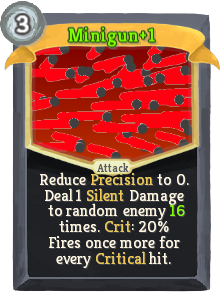
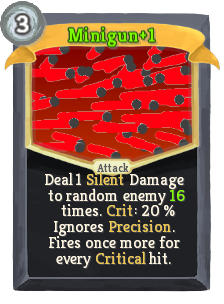
update

Changed region(s): [[0.1562, 0.5625, 0.8438, 0.7993]]

diff --git a/index.html b/index.html
@@ -53,7 +53,7 @@
         <td>Uncommon</td>
         <td>Power</td>
         <td>0</td>
-        <td>Every time you become Vulnerable, remove the effect and ALL creatures gain 2(3) Strength for this turn.</td>
+        <td>Every time you become Vulnerable, remove the effect and ALL creatures (including you) gain 2(3) Strength for this turn.</td>
       </tr>
       
       <tr>
@@ -163,7 +163,7 @@
         <td>Common</td>
         <td>Attack</td>
         <td>1</td>
-        <td>Deal 6(8) Silent damage, Crit: 15(20) %</td>
+        <td>Deal 6(8) Silent damage, Crit: !C! %</td>
       </tr>
       
       <tr>
@@ -173,7 +173,7 @@
         <td>Common</td>
         <td>Attack</td>
         <td>2</td>
-        <td>Deal 4 Damage and 3(4) times. Crit: 15% Lose 30 Precision.</td>
+        <td>Deal 4 Damage and 3(4) times. Crit: !C! % Lose 30 Precision.</td>
       </tr>
       
       <tr>
@@ -273,7 +273,7 @@
         <td>Uncommon</td>
         <td>Attack</td>
         <td>1</td>
-        <td>Deal 3(4) Silent damage and apply 1(2) Frail twice. Crit: 15%</td>
+        <td>Deal 3(4) Silent damage and apply 1(2) Frail twice. Crit: !C! %</td>
       </tr>
       
       <tr>
@@ -463,7 +463,7 @@
         <td>Uncommon</td>
         <td>Attack</td>
         <td>2</td>
-        <td>Deal 5(6) damage twice. Crit: 20% Critical hit multiplier stacks.</td>
+        <td>Deal 5(6) damage twice. Crit: !C! % If this deals 2 critical hits, the second one deals 9 times as much damage.</td>
       </tr>
       
       <tr>
@@ -493,7 +493,7 @@
         <td>Common</td>
         <td>Attack</td>
         <td>2</td>
-        <td>Spend 8 Gold. Deal 16(20) damage. Crit: 10 % If this deals Critical hit, Gain 40 Gold. Exhaust.</td>
+        <td>Spend 8 Gold. Deal 16(20) damage. Crit: !C! % If this deals Critical hit, Gain 40 Gold. Exhaust.</td>
       </tr>
       
       <tr>
@@ -533,7 +533,7 @@
         <td>Common</td>
         <td>Attack</td>
         <td>2</td>
-        <td>Deal 8(10) Damage. Crit: 10% Target loses 6(8) HP. Lose 25 Precision.</td>
+        <td>Deal 8(10) Damage. Crit: !C! % Target loses 6(8) HP. Lose 25 Precision.</td>
       </tr>
       
       <tr>
@@ -543,7 +543,7 @@
         <td>Uncommon</td>
         <td>Attack</td>
         <td>3</td>
-        <td>Expose yourself. Deal 4(5) Damage to random enemy 4 times. Crit: 40 % Discard random card for every Critical hit.</td>
+        <td>Expose yourself. Deal 4(5) Damage to random enemy 4 times. Crit: !C! % Discard random card for every Critical hit.</td>
       </tr>
       
       <tr>
@@ -633,7 +633,7 @@
         <td>Rare</td>
         <td>Attack</td>
         <td>3</td>
-        <td>Reduce Precision to 0. Deal 1 Silent Damage to random enemy 12(16) times. Crit: 20% Fires once more for every Critical hit.</td>
+        <td>Deal 1 Silent Damage to random enemy 12(16) times. Crit: !C! % Ignores Precision. Fires once more for every Critical hit.</td>
       </tr>
       
       <tr>
@@ -683,7 +683,7 @@
         <td>Common</td>
         <td>Attack</td>
         <td>2</td>
-        <td>Expose yourself. Deal 3 Damage to random enemy 4(5) times. Crit: 25% Lose 20 Precision for every Critical hit.</td>
+        <td>Expose yourself. Deal 3 Damage to random enemy 4(5) times. Crit: !C! % Lose 20 Precision for every Critical hit.</td>
       </tr>
       
       <tr>
@@ -693,7 +693,7 @@
         <td>Uncommon</td>
         <td>Attack</td>
         <td>X</td>
-        <td>Deal 6 Damage. Crit: X times 35(55) %.</td>
+        <td>Deal 5 Damage. Crit: X times !C! %.</td>
       </tr>
       
       <tr>
@@ -703,7 +703,7 @@
         <td>Common</td>
         <td>Attack</td>
         <td>1</td>
-        <td>Deal 3 Damage. Crit: 35% Critical hit deals 5(7) times as much damage instead of 3 times.</td>
+        <td>Deal 3 Damage. Crit: !C! % Critical hit deals 5(7) times as much damage instead of 3 times.</td>
       </tr>
       
       <tr>
@@ -723,7 +723,7 @@
         <td>Rare</td>
         <td>Attack</td>
         <td>4</td>
-        <td>Deal 30(36) damage. Crit: 0% Apply 3(7) Burning to ALL enemies.</td>
+        <td>Deal 30(36) damage. Crit: !C! % Apply 3(7) Burning to ALL enemies.</td>
       </tr>
       
       <tr>
@@ -733,7 +733,7 @@
         <td>Common</td>
         <td>Attack</td>
         <td>1</td>
-        <td>Deal 6(8) damage, Crit: 10% Draw 1 card.</td>
+        <td>Deal 6(8) damage, Crit: !C! % Draw 1 card.</td>
       </tr>
       
       <tr>
@@ -743,7 +743,7 @@
         <td>Basic</td>
         <td>Attack</td>
         <td>1</td>
-        <td>Deal 4 Damage. Crit: 30(60) % Exhaust.</td>
+        <td>Deal 4 Damage. Crit: !C! % Exhaust.</td>
       </tr>
       
       <tr>
@@ -773,7 +773,7 @@
         <td>Common</td>
         <td>Attack</td>
         <td>2</td>
-        <td>Lose 3 HP. Deal 16(20) damage. Crit: 10 % If this deals Critical hit, heal 15 HP. Exhaust.</td>
+        <td>Lose 3 HP. Deal 16(20) damage. Crit: !C! % If this deals Critical hit, heal 15 HP. Exhaust.</td>
       </tr>
       
       <tr>
@@ -803,7 +803,7 @@
         <td>Uncommon</td>
         <td>Attack</td>
         <td>3</td>
-        <td>Deal 25(32) damage. Crit: 25(40) % If this deals Critical hit, copy this card into your draw pile. Exhaust.</td>
+        <td>Deal 25(32) damage. Crit: !C! % If this deals Critical hit, copy this card into your draw pile. Exhaust.</td>
       </tr>
       
       <tr>
@@ -853,7 +853,7 @@
         <td>Uncommon</td>
         <td>Attack</td>
         <td>2</td>
-        <td>Expose yourself. Deal 2 Damage to random enemy 6 times. Crit: 20(30) % Draw a card for every Critical hit.</td>
+        <td>Expose yourself. Deal 2 Damage to random enemy 6 times. Crit: !C! % Draw a card for every Critical hit.</td>
       </tr>
       
       <tr>
@@ -883,7 +883,7 @@
         <td>Basic</td>
         <td>Attack</td>
         <td>1</td>
-        <td>Deal 4(5) Damage. Crit: 100 %</td>
+        <td>Deal 4(5) Damage. Crit: !C! %</td>
       </tr>
       
       <tr>
